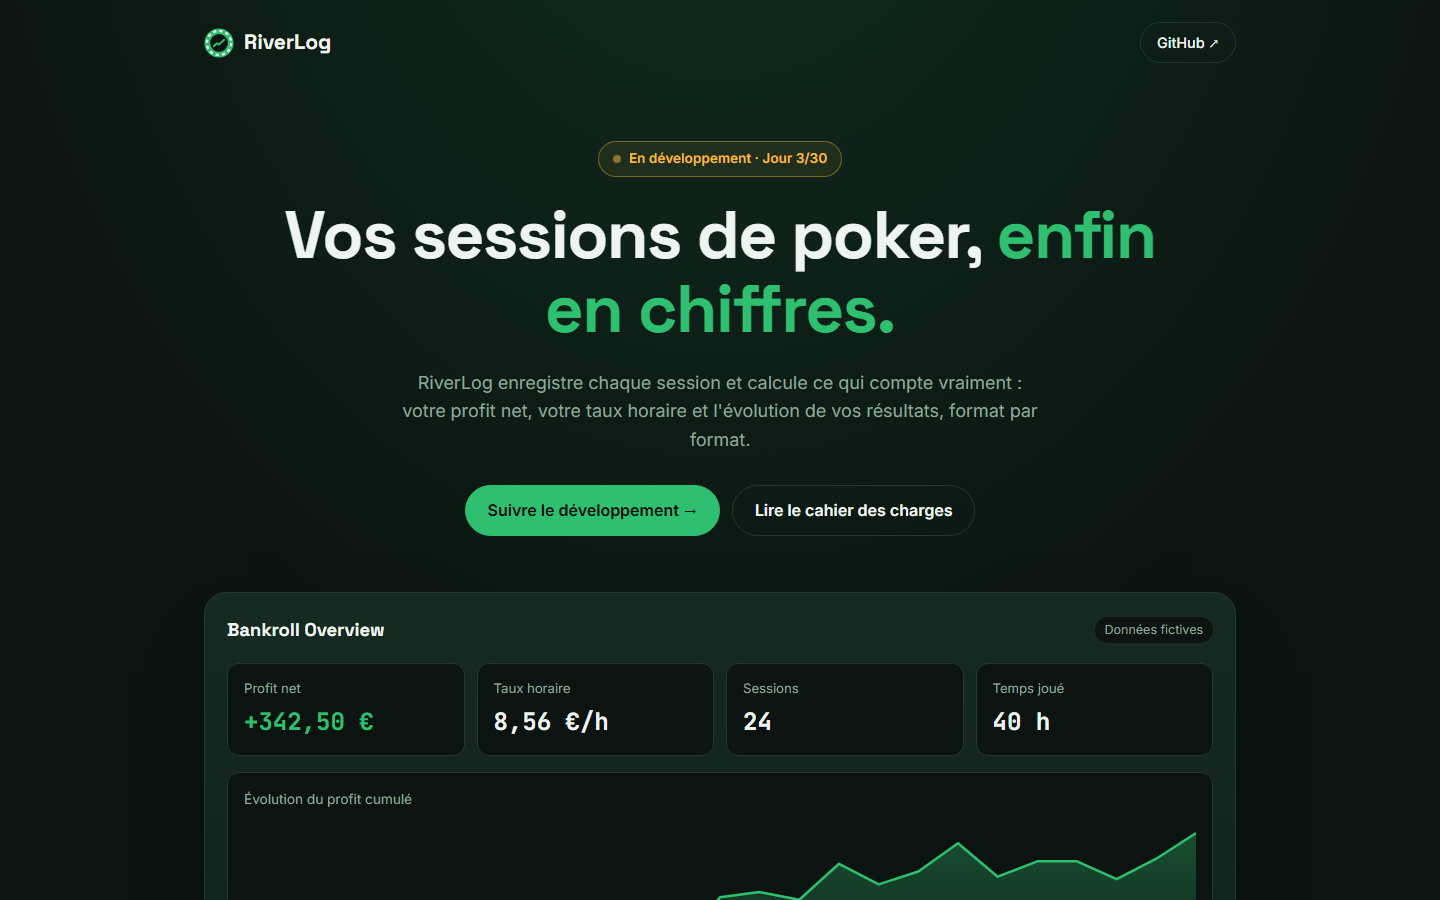
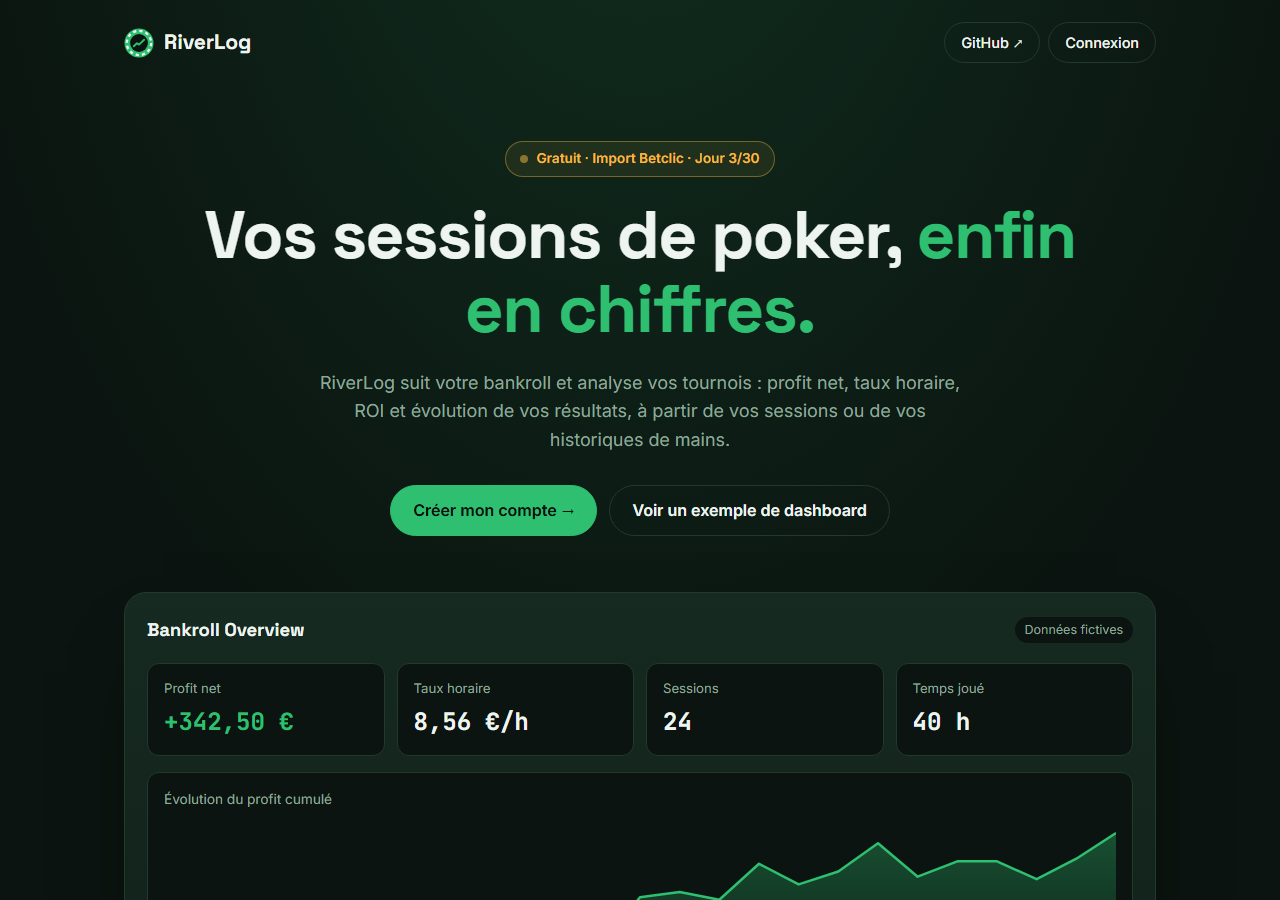
Page vitrine : toutes les fonctionnalités, sans feuille de route
- Vitrine : fonctionnalités réelles (sessions, dashboard, filtres, import Betclic,
  tournois, détail des mains, sessions automatiques, comptes privés),
  import en 3 étapes, calculs fiables et appel final
- README et cahier des charges : site en ligne sur Alwaysdata, CI/CD, nouvelle capture

diff --git a/public/css/landing.css b/public/css/landing.css
@@ -398,77 +398,62 @@ a {
   font-size: 0.9rem;
 }
 
-/* Feuille de route */
-.roadmap {
+/* Import en 3 étapes */
+.steps {
   display: grid;
-  gap: 8px;
+  grid-template-columns: repeat(auto-fit, minmax(230px, 1fr));
+  gap: 16px;
   margin: 30px 0 0;
   padding: 0;
   list-style: none;
-  counter-reset: step;
 }
 
-.roadmap li {
-  display: flex;
-  align-items: center;
-  gap: 14px;
-  padding: 14px 18px;
-  border-radius: 12px;
+.steps li {
+  padding: 22px;
+  border-radius: var(--radius);
   border: 1px solid var(--line);
   background: var(--surface);
-  color: var(--muted);
 }
 
-.roadmap li::before {
-  content: '';
-  flex: none;
-  width: 20px;
-  height: 20px;
-  border-radius: 50%;
-  border: 2px solid var(--line);
-}
-
-.roadmap li.is-done {
-  color: var(--ink);
-}
-
-.roadmap li.is-done::before {
-  content: '✓';
-  display: grid;
+.step-number {
+  display: inline-grid;
   place-items: center;
-  border-color: var(--felt);
+  width: 34px;
+  height: 34px;
+  margin-bottom: 12px;
+  border-radius: 50%;
   background: var(--felt);
   color: #06120c;
-  font-size: 0.75rem;
+  font-family: var(--font-mono);
   font-weight: 700;
 }
 
-/* Étape prévue plus tard (mise en production) */
-.roadmap li.is-later {
-  border-style: dashed;
+.steps h3 {
+  font-size: 1.15rem;
 }
 
-.roadmap li.is-later::before {
-  border-style: dashed;
-}
-
-.tag-later {
-  margin-left: auto;
-  flex: none;
-  padding: 2px 10px;
-  border-radius: 999px;
-  border: 1px solid rgba(62, 142, 247, 0.4);
-  background: rgba(62, 142, 247, 0.1);
-  color: var(--blue);
-  font-size: 0.75rem;
-  font-style: normal;
-  font-weight: 600;
-}
-
-.bonus {
-  margin: 18px 0 0;
+.steps p {
+  margin: 8px 0 0;
   color: var(--muted);
-  font-size: 0.95rem;
+}
+
+/* Appel final */
+.cta {
+  padding: 44px 24px;
+  border-radius: 22px;
+  border: 1px solid var(--line);
+  background: radial-gradient(ellipse 70% 90% at 50% 0%, rgba(47, 191, 113, 0.16), transparent 70%), var(--surface);
+  text-align: center;
+}
+
+.cta p {
+  margin: 12px auto 24px;
+  max-width: 34em;
+  color: var(--muted);
+}
+
+.footer a {
+  color: var(--ink);
 }
 
 /* ---------- Pied de page ---------- */

diff --git a/resources/views/landing.blade.php b/resources/views/landing.blade.php
@@ -1,6 +1,5 @@
 @php
     $repo = 'https://github.com/PierreWZK/RiverLog';
-    $spec = 'https://github.com/PierreWZK/RiverLog/blob/master/CAHIER_DES_CHARGES.md';
 
     // Formats d'affichage (français) : +342,50 € · 8,56 €/h
     $money = fn (float $v) => ($v > 0 ? '+' : ($v < 0 ? '−' : '')).number_format(abs($v), 2, ',', ' ').' €';
@@ -12,7 +11,7 @@
     <meta charset="UTF-8">
     <meta name="viewport" content="width=device-width, initial-scale=1.0">
     <title>RiverLog · Suivi de bankroll poker</title>
-    <meta name="description" content="RiverLog suit vos sessions de poker : profit net, taux horaire, courbe de résultats et filtres par format et période.">
+    <meta name="description" content="RiverLog suit votre bankroll poker : sessions, profit net, taux horaire, import des historiques Betclic, ROI et statistiques de tournois.">
     <link rel="icon" href="{{ asset('riverlog.svg') }}" type="image/svg+xml">
     <link rel="preconnect" href="https://fonts.googleapis.com">
     <link rel="preconnect" href="https://fonts.gstatic.com" crossorigin>
@@ -38,12 +37,11 @@
     <main>
         {{-- Hero --}}
         <section class="hero container">
-            <p class="badge"><span class="badge-dot"></span> En développement · Jour 3/30</p>
+            <p class="badge"><span class="badge-dot"></span> Gratuit · Import Betclic · Jour 3/30</p>
             <h1>Vos sessions de poker, <span>enfin en chiffres.</span></h1>
             <p class="lead">
-                RiverLog enregistre chaque session et calcule ce qui compte vraiment :
-                votre profit net, votre taux horaire et l'évolution de vos résultats,
-                format par format.
+                RiverLog suit votre bankroll et analyse vos tournois : profit net, taux horaire,
+                ROI et évolution de vos résultats, à partir de vos sessions ou de vos historiques de mains.
             </p>
             <div class="hero-actions">
                 @auth
@@ -100,53 +98,91 @@
         </section>
 
         {{-- Fonctionnalités --}}
-        <section class="section container">
-            <h2>Ce que fera l'outil</h2>
-            <p class="section-lead">Créez votre compte : vous saisissez vos sessions, RiverLog fait les calculs. Vos données restent privées, visibles par vous seul.</p>
+        <section class="section container" id="fonctionnalites">
+            <h2>Tout ce que fait RiverLog</h2>
+            <p class="section-lead">Saisissez vos sessions à la main ou importez vos historiques de mains : RiverLog fait les calculs, vous gardez la tête au jeu.</p>
 
             <div class="features">
                 <article class="feature">
                     <span class="feature-icon chip-red">♠</span>
-                    <h3>Historique des sessions</h3>
-                    <p>Date, format, durée, résultat net et notes. Ajout, modification et suppression, de la plus récente à la plus ancienne.</p>
+                    <h3>Sessions de jeu</h3>
+                    <p>
+                        Date, format, durée, résultat et notes, en quelques secondes.
+                        <span class="pill">Cash Game</span><span class="pill">MTT</span><span class="pill">Sit &amp; Go</span><span class="pill">Spin</span>
+                    </p>
                 </article>
                 <article class="feature">
                     <span class="feature-icon chip-gold">♦</span>
-                    <h3>Statistiques claires</h3>
-                    <p>Profit net, nombre de sessions, temps joué et taux horaire, calculés côté serveur sur vos vraies données.</p>
+                    <h3>Dashboard de bankroll</h3>
+                    <p>Profit net, taux horaire, nombre de sessions et temps joué, avec la courbe de votre profit cumulé.</p>
                 </article>
                 <article class="feature">
                     <span class="feature-icon chip-blue">♣</span>
                     <h3>Filtres qui recalculent tout</h3>
-                    <p>
-                        Par format
-                        <span class="pill">Cash Game</span><span class="pill">MTT</span><span class="pill">Sit &amp; Go</span>,
-                        par période et par résultat. Les chiffres, la courbe et le tableau suivent.
-                    </p>
+                    <p>Par format, période et résultat. Les cartes, la courbe et le tableau suivent, et l'URL garde vos filtres.</p>
                 </article>
                 <article class="feature">
                     <span class="feature-icon chip-green">♥</span>
-                    <h3>Courbe de profit</h3>
-                    <p>L'évolution de votre résultat cumulé, session après session, dans l'ordre chronologique.</p>
+                    <h3>Import des historiques Betclic</h3>
+                    <p>Déposez vos exports en .txt ou .zip : tournois, résultats et sessions sont créés automatiquement, sans doublon.</p>
+                </article>
+                <article class="feature">
+                    <span class="feature-icon chip-red">♠</span>
+                    <h3>Statistiques de tournois</h3>
+                    <p>ROI, victoires, places finales, conversion en heads-up, résultats par multiplicateur et par buy-in, ROI hors jackpots.</p>
+                </article>
+                <article class="feature">
+                    <span class="feature-icon chip-gold">♦</span>
+                    <h3>Détail main par main</h3>
+                    <p>Vos cartes, le board, votre tapis en big blinds et les jetons gagnés ou perdus, avec la courbe de votre tapis.</p>
+                </article>
+                <article class="feature">
+                    <span class="feature-icon chip-blue">♣</span>
+                    <h3>Sessions automatiques</h3>
+                    <p>Les tournois joués à moins de 30 minutes d'écart forment une session, ajoutée d'office à votre dashboard.</p>
+                </article>
+                <article class="feature">
+                    <span class="feature-icon chip-green">♥</span>
+                    <h3>Un compte, des données privées</h3>
+                    <p>Chacun ne voit que ses propres sessions, tournois et mains. Vos fichiers importés restent privés.</p>
                 </article>
             </div>
+        </section>
+
+        {{-- Import en 3 étapes --}}
+        <section class="section container">
+            <h2>Vos tournois analysés en 3 étapes</h2>
+            <p class="section-lead">Plus besoin de recopier vos résultats : l'historique de mains contient déjà tout.</p>
+
+            <ol class="steps">
+                <li>
+                    <span class="step-number">1</span>
+                    <h3>Exportez</h3>
+                    <p>Téléchargez l'historique de vos mains depuis votre compte Betclic.</p>
+                </li>
+                <li>
+                    <span class="step-number">2</span>
+                    <h3>Déposez</h3>
+                    <p>Glissez le fichier .txt ou l'archive .zip sur la page Import. Réimporter un fichier ne crée jamais de doublon.</p>
+                </li>
+                <li>
+                    <span class="step-number">3</span>
+                    <h3>Analysez</h3>
+                    <p>Chaque tournoi est compté une seule fois : buy-in, multiplicateur, place finale, gain et toutes vos mains.</p>
+                </li>
+            </ol>
         </section>
 
         {{-- Les calculs --}}
         <section class="section container">
             <h2>Des calculs fiables</h2>
-            <p class="section-lead">Le cœur de l'outil. Les mêmes règles partout : cartes, courbe et tableau utilisent toujours le même ensemble de sessions.</p>
+            <p class="section-lead">Les mêmes règles partout : cartes, courbes et tableaux utilisent toujours le même ensemble de données, filtré côté serveur.</p>
 
             <div class="formulas">
                 <div class="formula">
                     <span class="formula-name">Profit net</span>
                     <code>Σ résultats</code>
-                    <p>Une session perdante de 50 € compte pour −50,00 €.</p>
-                </div>
-                <div class="formula">
-                    <span class="formula-name">Temps joué</span>
-                    <code>Σ durées ÷ 60</code>
-                    <p>Les durées sont saisies en minutes, affichées en heures.</p>
+                    <p>Calculé au centime près : une session perdante de 50 € compte pour −50,00 €.</p>
                 </div>
                 <div class="formula">
                     <span class="formula-name">Taux horaire</span>
@@ -154,40 +190,38 @@
                     <p>Affiché « — » sans heure jouée : jamais de division par zéro.</p>
                 </div>
                 <div class="formula">
-                    <span class="formula-name">Profit cumulé</span>
-                    <code>C<sub>k</sub> = Σ<sub>i≤k</sub> résultat<sub>i</sub></code>
-                    <p>Calculé dans l'ordre chronologique, pour tracer la courbe.</p>
+                    <span class="formula-name">ROI</span>
+                    <code>profit ÷ buy-ins</code>
+                    <p>Avec un avertissement tant que l'échantillon est trop petit pour être parlant.</p>
+                </div>
+                <div class="formula">
+                    <span class="formula-name">Mains contrôlées</span>
+                    <code>Σ mises = pot</code>
+                    <p>Chaque main importée est vérifiée ; une main incohérente est signalée au lieu de fausser vos chiffres.</p>
                 </div>
             </div>
         </section>
 
-        {{-- Feuille de route --}}
+        {{-- Appel final --}}
         <section class="section container">
-            <h2>Feuille de route</h2>
-            <p class="section-lead">Le projet avance en public, étape par étape. Il tourne en local pour l'instant, la mise en ligne viendra ensuite.</p>
-
-            <ol class="roadmap">
-                <li class="is-done"><span>Projet Laravel installé et cahier des charges rédigé</span></li>
-                <li class="is-done"><span>Page vitrine</span></li>
-                <li><span>Sessions : base de données, ajout, modification, suppression</span></li>
-                <li><span>Comptes personnels : chacun ses sessions, plus un dashboard de démonstration</span></li>
-                <li><span>Calculs : profit net, temps joué, taux horaire</span></li>
-                <li><span>Dashboard : cartes statistiques, tableau et courbe Chart.js</span></li>
-                <li><span>Filtres par format, période et résultat, dans l'URL</span></li>
-                <li><span>Tests, documentation et données de démonstration</span></li>
-                <li class="is-later">
-                    <span>Mise en production : l'outil en ligne, avec une vraie base de données</span>
-                    <em class="tag-later">Plus tard</em>
-                </li>
-            </ol>
-
-            <p class="bonus">Et ensuite, si le temps le permet : export CSV, objectif de bankroll, comparaison des formats, import CSV.</p>
+            <div class="cta">
+                <h2>Prêt à suivre votre bankroll ?</h2>
+                <p>Créez votre compte gratuitement, ou explorez d'abord le dashboard de démonstration.</p>
+                <div class="hero-actions">
+                    @auth
+                        <a href="{{ route('dashboard') }}" class="btn btn-primary">Ouvrir mon dashboard →</a>
+                    @else
+                        <a href="{{ route('register') }}" class="btn btn-primary">Créer mon compte →</a>
+                    @endauth
+                    <a href="{{ route('demo.tournaments.index') }}" class="btn btn-ghost">Voir les tournois de démo</a>
+                </div>
+            </div>
         </section>
     </main>
 
     <footer class="footer container">
-        <span>RiverLog · Jour 03 du défi 30 jours, 30 projets</span>
-        <span>Laravel · Blade · Chart.js</span>
+        <span>RiverLog · Jour 03 du défi 30 jours, 30 projets · <a href="{{ $repo }}" target="_blank" rel="noopener">Code sur GitHub</a></span>
+        <span>Laravel · Blade · MySQL · Chart.js</span>
     </footer>
 </body>
 </html>

diff --git a/README.md b/README.md
@@ -1,32 +1,24 @@
 # RiverLog · Suivi de bankroll poker
 
-> Jour 03 du défi **30 jours, 30 projets** · Laravel, Blade et Chart.js · 🚧 **En développement**
+> Jour 03 du défi **30 jours, 30 projets** · Laravel, Blade, MySQL et Chart.js · 🟢 **En ligne : [riverlog.alwaysdata.net](https://riverlog.alwaysdata.net)**
 
 ![Page vitrine de RiverLog](docs/preview.png)
 
-RiverLog enregistre chaque session de poker et calcule ce qui compte vraiment : **le profit net, le taux horaire et l'évolution des résultats**, format par format.
+RiverLog suit votre bankroll poker et analyse vos tournois : **profit net, taux horaire, ROI et évolution des résultats**, à partir de sessions saisies à la main ou d'historiques de mains importés.
 
-Le cœur du projet n'est pas le CRUD, mais **des statistiques fiables** : cartes, courbe et tableau utilisent toujours le même ensemble de sessions filtrées, calculé côté serveur.
+Le cœur du projet n'est pas le CRUD, mais **des statistiques fiables** : cartes, courbes et tableaux utilisent toujours le même ensemble de données filtrées, calculé côté serveur, et chaque main importée est contrôlée.
 
-📄 Le détail de la V1 est dans le [cahier des charges](CAHIER_DES_CHARGES.md).
+📄 Le détail est dans le [cahier des charges](CAHIER_DES_CHARGES.md).
 
-## Fonctionnalités prévues (V1)
+## Fonctionnalités
 
-- **Sessions** : date et heure, format (Cash Game, MTT, Sit & Go), durée en minutes, résultat net (négatif pour une perte) et notes. Ajout, modification et suppression.
-- **Tableau de bord** : profit net, nombre de sessions, temps joué et taux horaire, plus une courbe du profit cumulé (Chart.js).
-- **Filtres** par format, période et résultat, transmis dans l'adresse (`?format=mtt&from=…&to=…&result=win`) : les statistiques, la courbe et le tableau sont recalculés.
-- **Des calculs sans piège** : jamais de division par zéro, taux horaire négatif possible, ordre chronologique respecté.
-
-## Avancement
-
-- [x] Projet Laravel installé et cahier des charges rédigé
-- [x] Page vitrine
-- [ ] Sessions : base de données, ajout, modification, suppression
-- [ ] Calculs : profit net, temps joué, taux horaire (`BankrollStatsService`)
-- [ ] Dashboard : cartes statistiques, tableau et courbe Chart.js
-- [ ] Filtres par format, période et résultat, dans l'URL
-- [ ] Tests, documentation et données de démonstration
-- [ ] Mise en production, avec une vraie base de données (plus tard)
+- **Comptes** : inscription, connexion ; chacun ne voit que ses propres données. Une **démo publique** en lecture seule montre un dashboard et des tournois fictifs (`/demo`).
+- **Sessions** : date, format (Cash Game, MTT, Sit & Go, Spin), durée, résultat et notes. Ajout, modification, suppression.
+- **Dashboard** : profit net, taux horaire, sessions, temps joué et courbe du profit cumulé, avec des **filtres** par format, période et résultat gardés dans l'URL.
+- **Import Betclic** : fichiers `.txt` ou `.zip`, doublons ignorés, réimport sans risque. Les tournois proches sont regroupés en **sessions automatiques**.
+- **Tournois** : ROI, victoires, places finales, conversion en heads-up, résultats par multiplicateur et par buy-in, ROI hors jackpots.
+- **Détail d'un tournoi** : chaque main avec cartes, board, tapis en big blinds et jetons gagnés ou perdus.
+- **Qualité** : 70 tests automatisés sur MySQL, CI/CD GitHub Actions (tests puis déploiement automatique sur Alwaysdata).
 
 ## Lancer en local
 
@@ -58,7 +50,9 @@ Puis ouvrir http://127.0.0.1:8000 (la démo publique est sur `/demo`).
 
 ## Hébergement
 
-Le projet est **maintenu en local pour le moment**. Le site du défi est hébergé sur Netlify, qui ne peut pas exécuter de PHP. Si une solution d'hébergement simple se présente, RiverLog sera mis en ligne avec une base de données fonctionnelle.
+RiverLog est hébergé sur **[Alwaysdata](https://www.alwaysdata.com)** (PHP 8.4, MySQL) : **https://riverlog.alwaysdata.net**.
+
+Chaque push sur `master` lance le workflow [CI / CD](.github/workflows/main.yml) : les tests tournent sur PHP 8.3 + MySQL 8.4, puis, s'ils passent, le serveur est mis à jour en SSH par [deploy.sh](deploy.sh) (code, dépendances, migrations, caches). Les secrets (clé SSH, empreinte du serveur) sont stockés dans GitHub, jamais dans le dépôt.
 
 ## Technologies
 

diff --git a/CAHIER_DES_CHARGES.md b/CAHIER_DES_CHARGES.md
@@ -170,9 +170,9 @@ Tables complémentaires : `users` (comptes), `hand_imports`, `tournaments`, `han
 
 ### Hébergement et mise en production
 
-- **Pour le moment, le projet est maintenu en local** (`php artisan serve` et serveur MySQL local). Le site du défi est hébergé sur Netlify, qui ne peut pas exécuter de PHP : RiverLog n'y est donc pas publié, et sa carte renvoie vers le code sur GitHub.
-- **Mise en production plus tard :** si une solution d'hébergement simple et pratique se présente, le projet sera mis en ligne **avec une base de données fonctionnelle**, pour que l'outil soit utilisable directement depuis le navigateur.
-- Ce point ne bloque pas la V1 : le code doit simplement rester facile à déployer (configuration dans `.env`, migrations et seeders à jour).
+- **En ligne sur Alwaysdata** : https://riverlog.alwaysdata.net (PHP 8.4, base MySQL de l'hébergeur). Le site du défi reste sur Netlify, qui ne peut pas exécuter de PHP : sa carte renvoie vers cette adresse.
+- **Déploiement continu** : le workflow GitHub Actions `.github/workflows/main.yml` lance les tests (PHP 8.3 + MySQL 8.4) à chaque push ; sur `master`, s'ils passent, il met le serveur à jour en SSH avec `deploy.sh` (code, `composer install --no-dev`, migrations, caches). Clé SSH et empreinte du serveur sont des secrets GitHub.
+- **En local** : `php artisan serve` et un serveur MySQL local, pour développer et tester avant de pousser.
 - **Base en production :** une base MySQL 8 (ou MariaDB compatible) fournie par l'hébergeur, avec un utilisateur dédié aux droits limités. Le déploiement se résume à renseigner les variables `DB_*` puis lancer `php artisan migrate --force`.
 
 ---
